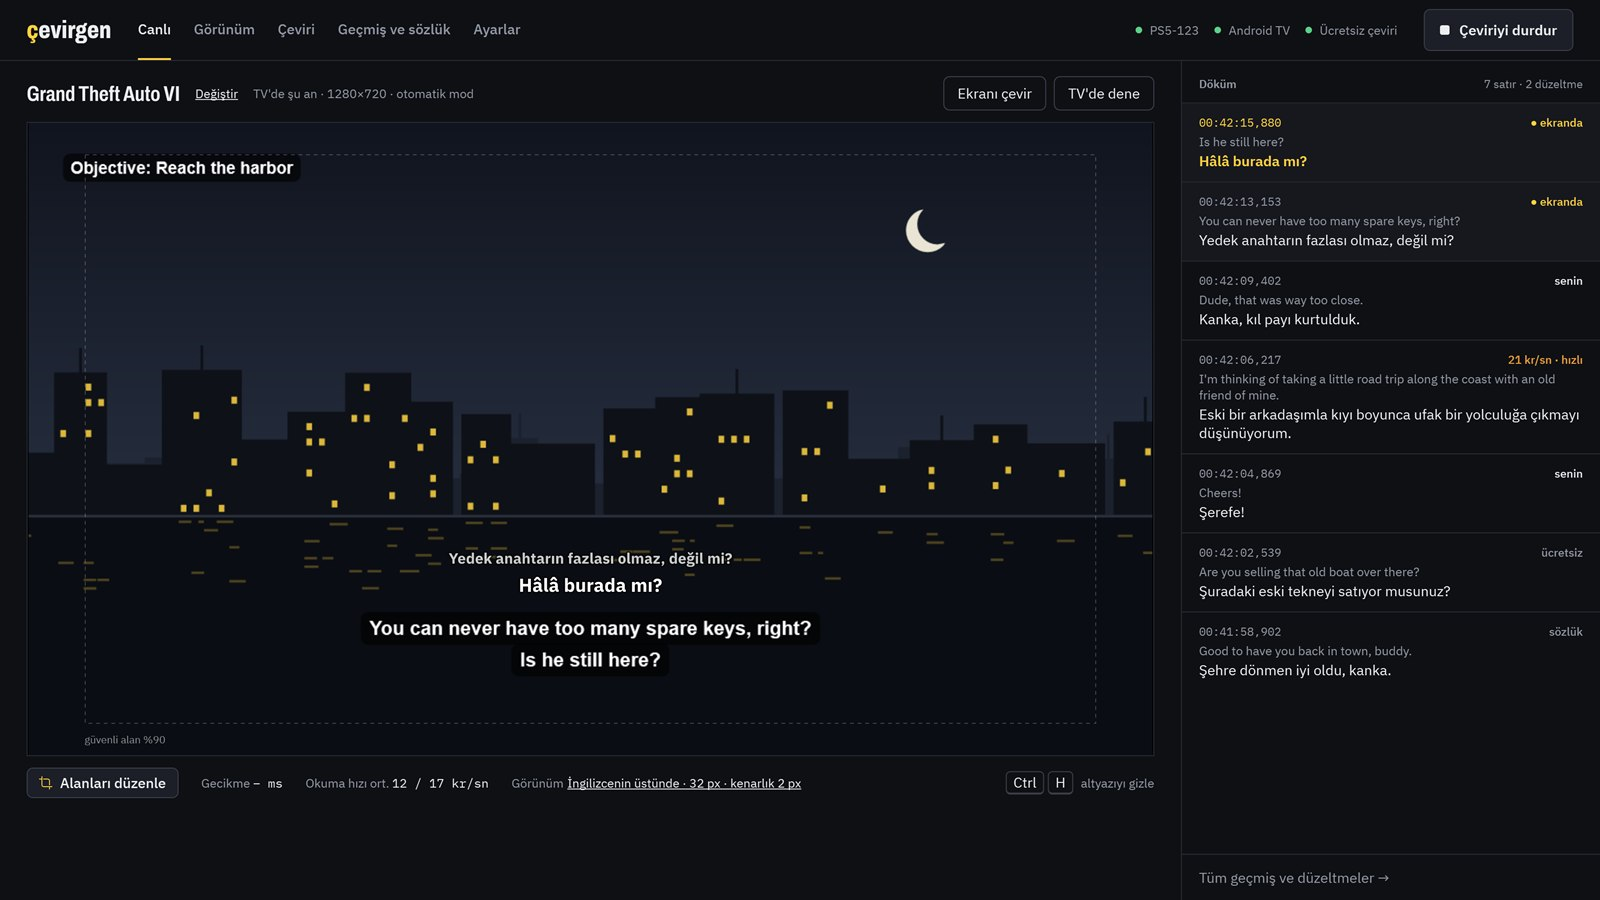
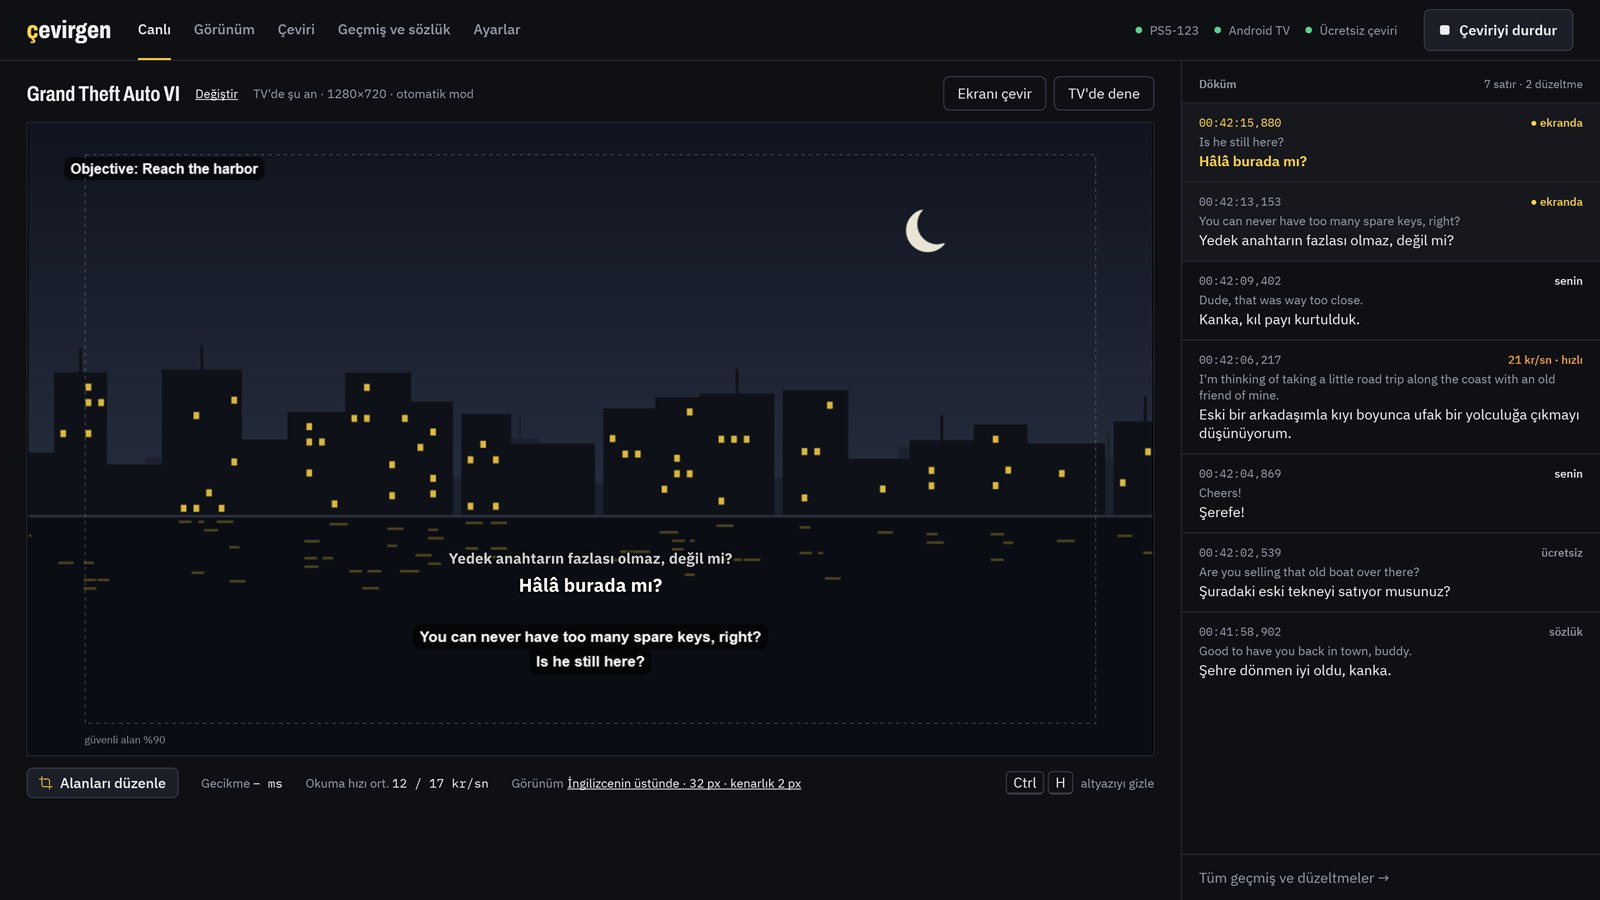
Deneme karesinde İngilizce oyundaki boyutunda; README'de Akıllı Uygulama Denetimi notu
- Deneme karesinin İngilizce altyazısı 1080p'de ~25 px (oyundaki gibi); Türkçe ondan belirgin büyük görünür
- Canlı ekran görüntüleri yenilendi
- README (TR/EN): Akıllı Uygulama Denetimi açıksa imzasız uygulama çalışmaz; nasıl kapatılır

Changed region(s): [[0.2188, 0.6844, 0.5, 0.7467], [0.0312, 0.1556, 0.1875, 0.2178]]

diff --git a/windows/src/Cevirgen.App/Services/DemoFrameRenderer.cs b/windows/src/Cevirgen.App/Services/DemoFrameRenderer.cs
@@ -54,11 +54,11 @@ internal static class DemoFrameRenderer
         using (var context = visual.RenderOpen())
         {
             DrawScene(context, scene);
-            // Ölçüler 1080p oyundaki gibi (karede 720p): GTA tarzı altyazı 1080p'de ~33 px (burada 22), görev yazısı ~28 px
-            // (burada 19). Canlı ekrandaki önizleme Türkçeyi aynı oranla çizdiği için İngilizce ile Türkçe TV'deki gibi görünür.
-            DrawText(context, DemoScript.Objective.English, size: 19, x: 48, top: 0.08);
+            // Ölçüler 1080p oyundaki gibi (karede 720p): GTA 6 altyazısı 1080p'de ~25 px (burada 17), görev yazısı ~24 px
+            // (burada 16). Türkçe (32 px) İngilizceden belirgin büyük durur. Canlı ekrandaki önizleme Türkçeyi aynı oranla çizdiği için İngilizce ile Türkçe TV'deki gibi görünür.
+            DrawText(context, DemoScript.Objective.English, size: 16, x: 48, top: 0.08);
             for (var i = 0; i < english.Count; i++)
-                DrawText(context, english[i], size: 22, x: null, top: DemoFrames.SubtitleBaseline - (english.Count - 1 - i) * 36.0 / H);
+                DrawText(context, english[i], size: 17, x: null, top: DemoFrames.SubtitleBaseline - (english.Count - 1 - i) * 28.0 / H);
         }
         var bitmap = new RenderTargetBitmap(DemoFrames.Width, DemoFrames.Height, 96, 96, PixelFormats.Pbgra32);
         bitmap.Render(visual);

diff --git a/README.en.md b/README.en.md
@@ -35,6 +35,10 @@
 
 Çevirgen watches the game's picture (Remote Play from a free second PSN account on PS5, its own connection on Xbox, the game window on PC), reads only the areas you choose, translates them and shows the Turkish line on an Android TV over the game, or on the PC screen. Nothing is installed on the console or in the game.
 
+## Install
+
+Download `CevirgenApp-win-Setup.exe` from the [latest release](https://github.com/ozguradmin/cevirgen/releases/latest) and run it. The installer is not signed yet: if SmartScreen warns, choose **More info › Run anyway**. If **Smart App Control** is on, Windows blocks unsigned apps without that option; turn it off in **Settings › Privacy & security › Windows Security › App & browser control › Smart App Control settings**. On older Windows 11 builds it cannot be turned back on without resetting Windows.
+
 ## Privacy
 
 An anonymous usage count (random ID, version, platform every 5 minutes) and, to build better ready-made translations, the English lines read on screen with their translations and the game name are sent. Personal data such as e-mail addresses or phone numbers is filtered out. Both can be turned off in Settings › App. Details: [PRIVACY.md](PRIVACY.md).

diff --git a/README.md b/README.md
@@ -61,6 +61,7 @@ Altyazının TV'de nasıl duracağını sen seçersin; Görünüm sekmesinden te
 
 1. [Son sürümü indir](https://github.com/ozguradmin/cevirgen/releases/latest) ve `CevirgenApp-win-Setup.exe`'yi çalıştır.
 2. Windows "tanınmayan uygulama" uyarısı verirse **Ek bilgi › Yine de çalıştır**'a bas. Yükleyici henüz imzalı değil; kaynak kodu bu depoda.
+   - **Akıllı Uygulama Denetimi açıksa** Windows imzasız uygulamayı hiç çalıştırmaz, "Yine de çalıştır" seçeneği de çıkmaz. **Ayarlar › Gizlilik ve güvenlik › Windows Güvenliği › Uygulama ve tarayıcı denetimi › Akıllı Uygulama Denetimi ayarları**'ndan **Kapalı**'ya al. Eski Windows 11 sürümlerinde bu ayar kapatıldıktan sonra Windows sıfırlanmadan yeniden açılamıyor; yeni sürümlerde aynı yerden geri açılır.
 3. Çevirgen'i aç, "Oyunu nerede oynuyorsun?" sorusunu cevapla ve adımları izle.
 
 **PS5 için önemli:** Ekranın üstünde sürekli "Uzaktan Oynatma'ya bağlandı" yazmasın diye PS5'te **Ayarlar › Sistem › Uzaktan Oynatma › Uzaktan Oynatma Bağlantı Durumu Açılır Penceresini Gizle**'yi aç; bunu hem kendi hesabında hem ikinci hesapta yap.
